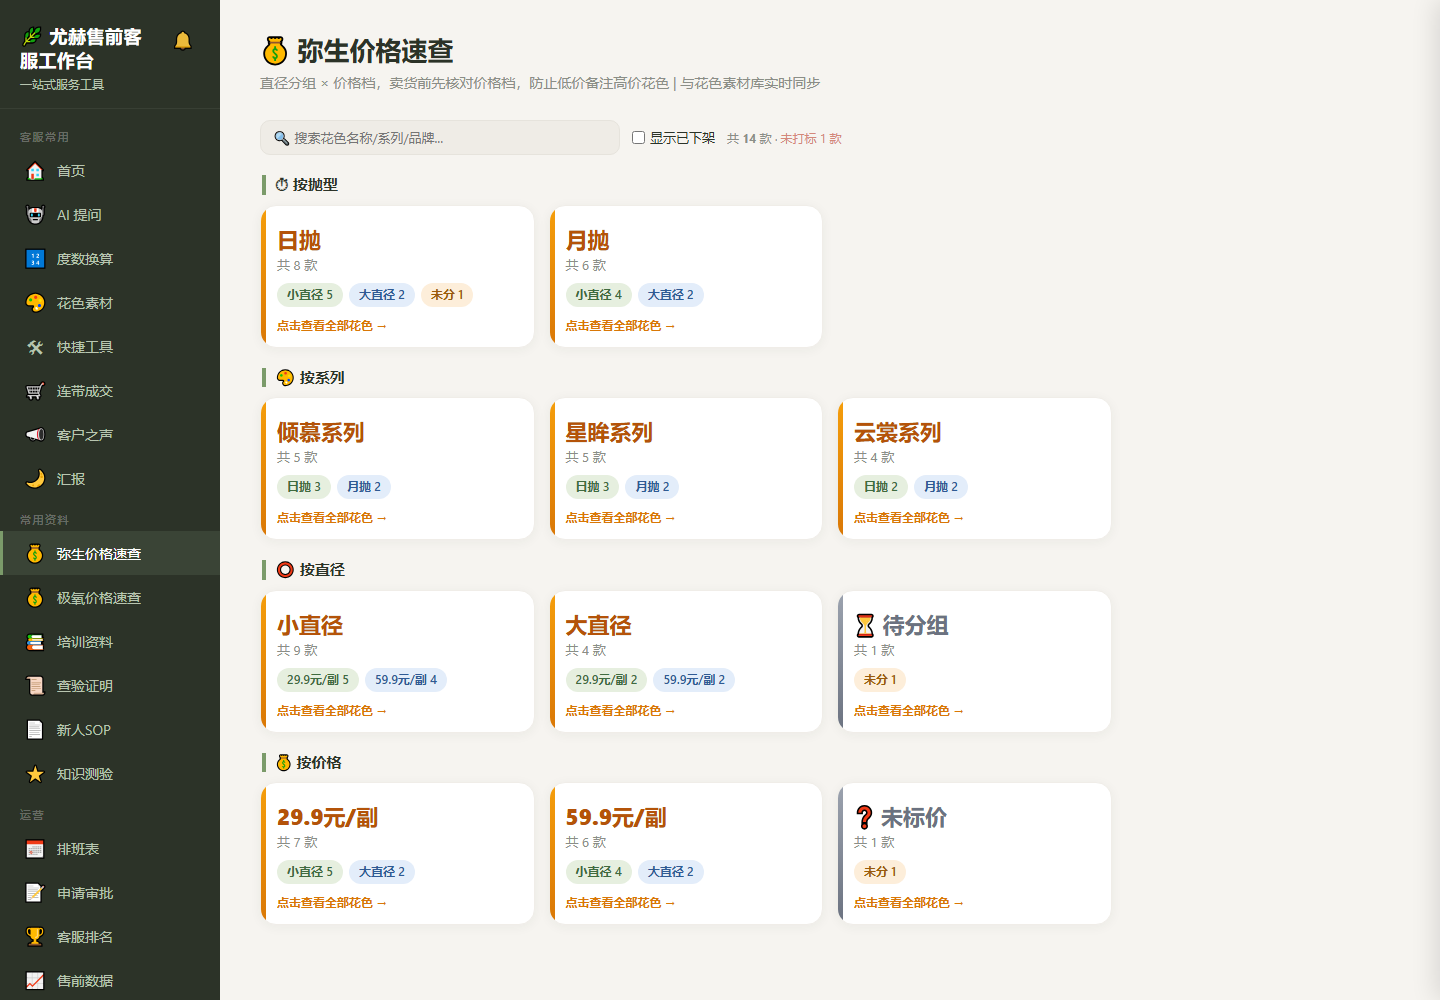
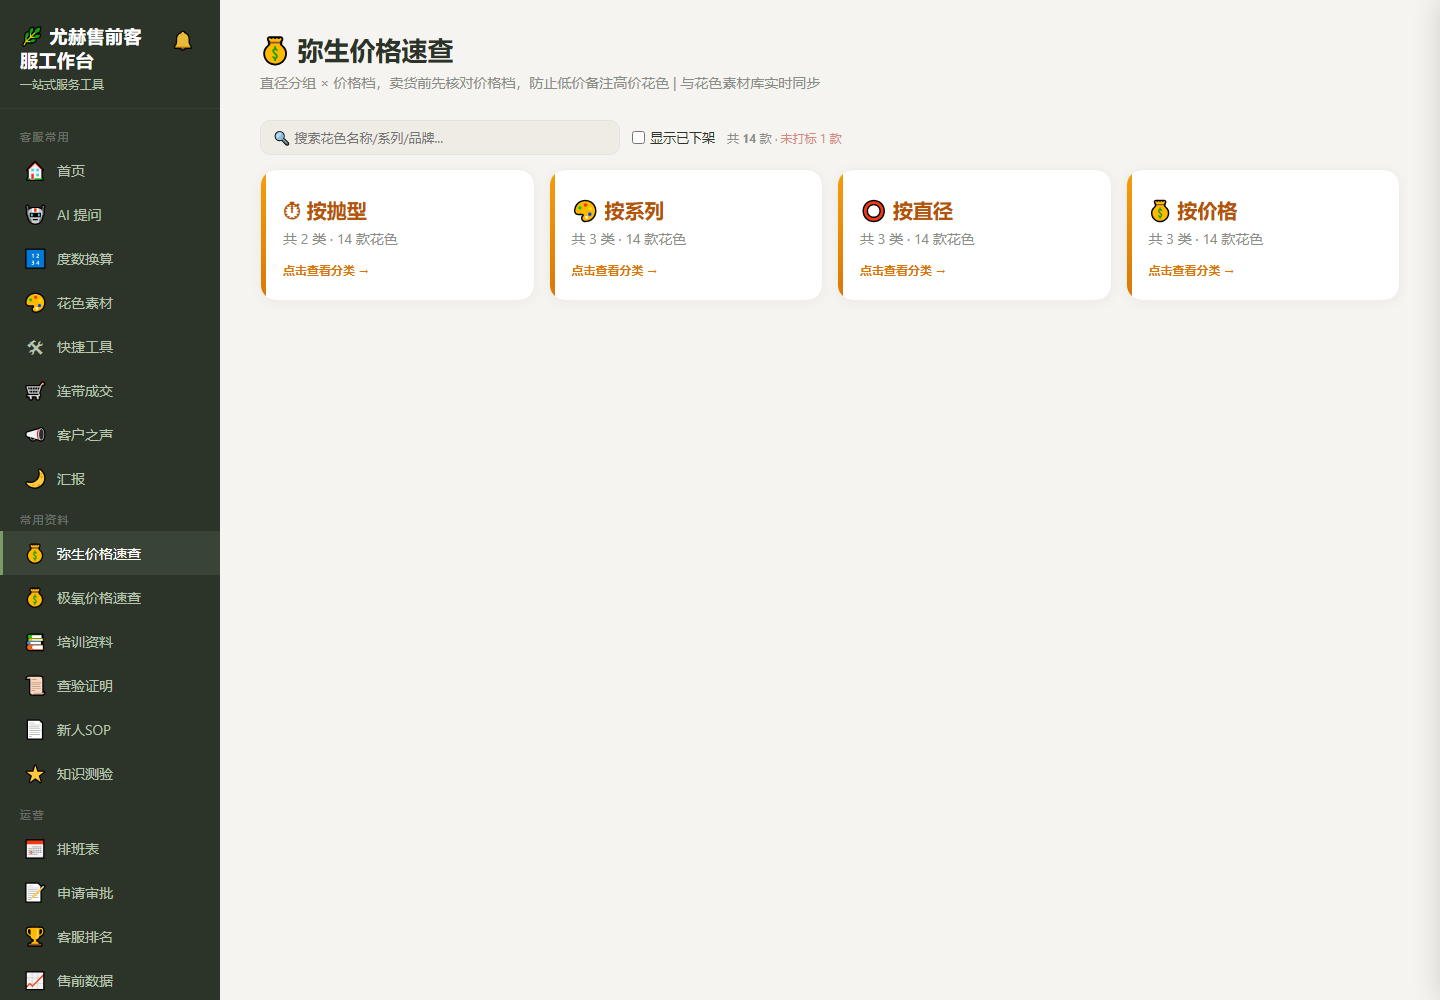
feat: 价格速查改三级导航——第一层只放四张分类大卡，点进分类看选项卡片，再点选项看花色明细

diff --git a/outputs/smoke-pp.js b/outputs/smoke-pp.js
@@ -73,41 +73,49 @@ const wd = setTimeout(()=>{ console.log('WATCHDOG_TIMEOUT'); process.exit(3); },
     return { __skipMerge:true };
   });
 
-  // ===== 第一层：四维度分区（客服视角） =====
+  // ===== 第一层：四张分类大卡片（客服视角） =====
   await ev('csFirstLayer', ()=>{
     const o={};
     const content=()=>document.getElementById('pp-content').textContent;
     o.treeFieldsOk = Object.values(patternData.brands).every(b=>Object.values(b).every(arr=>arr.every(p=>'priceTier' in p && 'diamGroup' in p && '_type' in p && 'series' in p)));
-    o.dimTitleCount = document.querySelectorAll('#pp-content .pp-dim-title').length;   // 按抛型/按系列/按直径/按价格 = 4
-    o.tierCardCount = document.querySelectorAll('#pp-content .pp-tiercard').length;
-    // 弥生非下架 6 款：抛型2(日抛4/半年抛2) + 系列3(倾慕3/星眸1/未填2) + 直径3(小3/大1/待分组2) + 价格3(29.9:3/59.9:1/未标价1) = 11
+    o.l1Cards = document.querySelectorAll('#pp-content .pp-tiercard').length;   // 按抛型/按系列/按直径/按价格 = 4
+    o.l1Info = content().includes('按抛型') && content().includes('按系列') && content().includes('按直径') && content().includes('按价格')
+      && content().includes('类 · 6 款花色');
     o.noCardsLayer1 = document.querySelectorAll('#pp-content .pp-card').length===0;   // 第一层不出现花色卡片
     o.noCheckbox = document.querySelectorAll('#pp-content .pp-check').length===0;
     o.noQuick = document.querySelectorAll('#pp-content .pp-quick').length===0;
     o.noPatternNames = !content().includes('奶茶棕') && !content().includes('小鹿棕') && !content().includes('未标款');
-    o.no499 = !content().includes('49.9元/副');   // 极氧的花色不出现
-    o.no69 = !content().includes('69元/副');
-    o.discHidden = !content().includes('老款棕');
-    // 价格 29.9 卡：共 3 款 + 直径徽标（小直径 2 + 未分 1）
-    const card299 = [...document.querySelectorAll('#pp-content .pp-tiercard')].find(c=>c.querySelector('.pp-tiercard-price') && c.querySelector('.pp-tiercard-price').textContent==='29.9元/副');
-    o.priceCard299Info = !!card299 && card299.textContent.includes('共 3 款') && card299.textContent.includes('小直径 2') && card299.textContent.includes('未分 1');
-    // 抛型 日抛 卡：共 4 款
-    const cardRi = [...document.querySelectorAll('#pp-content .pp-tiercard')].find(c=>c.querySelector('.pp-tiercard-price') && c.querySelector('.pp-tiercard-price').textContent==='日抛');
-    o.typeCardInfo = !!cardRi && cardRi.textContent.includes('共 4 款');
-    // 系列 未填系列 卡：共 2 款
-    const cardNone = [...document.querySelectorAll('#pp-content .pp-tiercard')].find(c=>c.querySelector('.pp-tiercard-price') && c.querySelector('.pp-tiercard-price').textContent.includes('未填系列'));
-    o.seriesNoneInfo = !!cardNone && cardNone.textContent.includes('共 2 款');
+    o.no499 = !content().includes('49.9元/副') && !content().includes('倾慕系列') && !content().includes('日抛');   // 选项也不出现
     const bb = document.getElementById('pp-batch-bar');
     o.batchBarHiddenCs = !bb || bb.style.display==='none';
     return o;
   });
 
-  // ===== 明细层：按抛型 → 日抛（客服视角） =====
+  // ===== 第二层：按系列 → 选项卡片（客服视角） =====
+  await ev('csSeriesL2', ()=>{
+    const o={};
+    openPpDim('series');
+    const content=()=>document.getElementById('pp-content').textContent;
+    o.backBtn = !!document.querySelector('#pp-content .pp-back');
+    o.l2Title = content().includes('按系列') && content().includes('6 款');
+    o.seriesCards = document.querySelectorAll('#pp-content .pp-tiercard').length;   // 倾慕3 + 星眸1 + 未填2 = 3
+    o.seriesInfo = content().includes('倾慕系列') && content().includes('星眸系列') && content().includes('未填系列');
+    o.l2NoPatterns = !content().includes('奶茶棕') && !content().includes('加测甲');   // 选项卡面不出现花色名
+    o.l2NoCheckbox = document.querySelectorAll('#pp-content .pp-check').length===0;
+    const bb = document.getElementById('pp-batch-bar');
+    o.batchBarHiddenCsL2 = !bb || bb.style.display==='none';
+    ppBackToDims();
+    o.backOk = ppDimView===null && document.querySelectorAll('#pp-content .pp-tiercard').length===4;
+    return o;
+  });
+
+  // ===== 第三层：按抛型 → 日抛明细（客服视角） =====
   await ev('csTypeDetail', ()=>{
     const o={};
     openPpDim('type','日抛');
     const content=()=>document.getElementById('pp-content').textContent;
     o.backBtn = !!document.querySelector('#pp-content .pp-back');
+    o.backLabelOk = document.querySelector('#pp-content .pp-back').textContent.includes('返回按抛型');
     o.typeTitleOk = content().includes('日抛') && content().includes('4 款');
     o.typePatterns = content().includes('奶茶棕') && content().includes('加测甲') && content().includes('加测乙');
     o.typeGroupsOk = content().includes('小直径') && content().includes('待分组（未标直径）');
@@ -115,12 +123,14 @@ const wd = setTimeout(()=>{ console.log('WATCHDOG_TIMEOUT'); process.exit(3); },
     o.typeCards = document.querySelectorAll('#pp-content .pp-card').length;   // 4
     const bb = document.getElementById('pp-batch-bar');
     o.batchBarHiddenCsTier = !bb || bb.style.display==='none';
+    ppBackToDimOptions('type');
+    o.typeOptionCards = document.querySelectorAll('#pp-content .pp-tiercard').length;   // 日抛4 + 半年抛2 = 2
+    o.backToL2Ok = ppDimView.val===null && o.typeOptionCards===2;
     ppBackToDims();
-    o.backOk = ppDimView===null && document.querySelectorAll('#pp-content .pp-tiercard').length===11;
     return o;
   });
 
-  // ===== 明细层：按直径 → 小直径（按价格档分组）+ 按价格 → 29.9（按直径分组） =====
+  // ===== 第三层：按直径/按价格（客服视角，交叉分组） =====
   await ev('csDimDetail', ()=>{
     const o={};
     openPpDim('diam','小直径');
@@ -136,23 +146,26 @@ const wd = setTimeout(()=>{ console.log('WATCHDOG_TIMEOUT'); process.exit(3); },
     return o;
   });
 
-  // ===== 管理员：第一层批量条隐藏，明细内可见 + 已下架 =====
+  // ===== 管理员：批量条只在第三层显示 + 已下架 =====
   await ev('adminTier', ()=>{
     const o={};
     currentProfile = { role:'admin', name:'杨茹' };
     renderPatternPricePage();
     let bb = document.getElementById('pp-batch-bar');
-    o.batchBarHiddenL1 = !bb || bb.style.display==='none';   // 管理员在第一层也不显示批量条
+    o.batchBarHiddenL1 = !bb || bb.style.display==='none';   // 第一层隐藏
+    openPpDim('price');
+    bb = document.getElementById('pp-batch-bar');
+    o.batchBarHiddenL2 = !bb || bb.style.display==='none';   // 第二层也隐藏
     openPpDim('price','29.9元/副');
     bb = document.getElementById('pp-batch-bar');
     o.batchBarEl = !!bb;
-    o.batchBarVisibleTier = bb && bb.style.display==='flex';
+    o.batchBarVisibleTier = bb && bb.style.display==='flex';  // 第三层才显示
     o.adminChecks = document.querySelectorAll('#pp-content .pp-check').length;         // 3
     o.quickSelects = document.querySelectorAll('#pp-content .pp-quick select').length; // 6
-    // 已下架：开启后第一层出现 月抛 卡与 69 档卡
+    // 已下架：开启后第二层价格出现 69 卡
     document.getElementById('pp-show-disc').checked = true;
-    ppBackToDims();
-    o.tierCardCountDisc = document.querySelectorAll('#pp-content .pp-tiercard').length;  // 13
+    ppBackToDimOptions('price');
+    o.priceOptionCardsDisc = document.querySelectorAll('#pp-content .pp-tiercard').length;  // 29.9+59.9+69+未标价 = 4
     o.disc69Card = document.getElementById('pp-content').textContent.includes('69元/副');
     openPpDim('price','69元/副');
     o.discVisible = document.getElementById('pp-content').textContent.includes('老款棕');
@@ -183,18 +196,22 @@ const wd = setTimeout(()=>{ console.log('WATCHDOG_TIMEOUT'); process.exit(3); },
     o.newNavCount = document.querySelectorAll('.nav-item[data-page="price-miyang"],.nav-item[data-page="price-jiyang"]').length;   // 2
     window.loadPatternCategories = async ()=>{};
     window.loadPatternsFromDB = async ()=>{ patternData = buildPatternTree(window.__rows || []); };
-    // 模拟正在明细里浏览时点击另一品牌入口 → 应回到第一层
+    // 模拟正在第三层明细里浏览时点击另一品牌入口 → 应回到第一层
     ppDimView = { dim:'type', val:'日抛' };
     switchPage('price-jiyang');
     const h1 = document.querySelector('#page-pattern-price h1').textContent;
     const cj = document.getElementById('pp-content').textContent;
     o.aliasReset = ppDimView===null && ppBrandFilter==='极氧' && h1.includes('极氧');
-    o.aliasJiyangOk = o.aliasReset && cj.includes('49.9元/副') && !cj.includes('29.9元/副') && !cj.includes('奶茶棕');
-    o.tierCardsJiyang = document.querySelectorAll('#pp-content .pp-tiercard').length;   // 极氧仅 a3：4 个维度各 1 张卡
+    o.aliasJiyangOk = o.aliasReset && cj.includes('按价格') && cj.includes('1 款花色') && !cj.includes('奶茶棕');
+    o.tierCardsJiyang = document.querySelectorAll('#pp-content .pp-tiercard').length;   // 4 张分类大卡
+    openPpDim('price');
+    o.jiyangPriceCards = document.querySelectorAll('#pp-content .pp-tiercard').length;  // 极氧价格层仅 49.9 一张
+    o.jiyang499Ok = document.getElementById('pp-content').textContent.includes('49.9元/副');
+    ppBackToDims();
     o.navActiveJiyang = !!document.querySelector('.nav-item[data-page="price-jiyang"].active');
     switchPage('price-miyang');
     const cm = document.getElementById('pp-content').textContent;
-    o.aliasMiyangOk = ppBrandFilter==='弥生' && cm.includes('29.9元/副') && !cm.includes('49.9元/副');
+    o.aliasMiyangOk = ppBrandFilter==='弥生' && cm.includes('按价格') && cm.includes('6 款花色');
     o.navActiveMiyang = !!document.querySelector('.nav-item[data-page="price-miyang"].active');
     // 回归：switchPage 内部 refreshAdminUI 会重设批量条 → 第一层必须仍隐藏
     const bbL1 = document.getElementById('pp-batch-bar');
@@ -266,13 +283,15 @@ const wd = setTimeout(()=>{ console.log('WATCHDOG_TIMEOUT'); process.exit(3); },
     ];
     currentProfile = { role:'admin', name:'杨茹' };
     ppSel.clear(); ppDimView = null; ppRenderLimit = PP_PAGE_SIZE;
-    // 第一层搜索：命中的只有小鹿棕 → 四个分区各剩 1 张卡（共 4 张）
+    // 第一层搜索：4 张分类卡照常渲染；按价格第二层只剩 59.9 一张卡
     const sq=document.getElementById('pp-search'); sq.value='小鹿';
     renderPatternPricePage();
+    const l1ok = document.querySelectorAll('#pp-content .pp-tiercard').length===4;
+    openPpDim('price');
     const c2=document.getElementById('pp-content').textContent;
-    o.searchOk = c2.includes('59.9元/副') && !c2.includes('29.9元/副')
-      && document.querySelectorAll('#pp-content .pp-tiercard').length===4;
-    sq.value='';
+    o.searchOk = l1ok && c2.includes('59.9元/副') && !c2.includes('29.9元/副')
+      && document.querySelectorAll('#pp-content .pp-tiercard').length===1;
+    sq.value=''; ppBackToDims(); renderPatternPricePage();
     const pat = Object.values(patternData.brands).flatMap(b=>Object.values(b)).flat().find(p=>p.name==='小鹿棕');
     window._editPattern = Object.assign({}, pat, { isNew:false, sortOrder: pat.sortOrder || 0 });
     window._editImages = [];
@@ -292,14 +311,14 @@ const wd = setTimeout(()=>{ console.log('WATCHDOG_TIMEOUT'); process.exit(3); },
   out._errs = errs.slice(0,6);
   console.log(JSON.stringify(out,null,2));
   const numeric = {
-    dimTitleCount:4, tierCardCount:11,
+    l1Cards:4, seriesCards:3, typeOptionCards:2,
     typeCards:4, diamCards:3, priceCards:3,
-    tierCardCountDisc:13,
+    priceOptionCardsDisc:4, jiyangPriceCards:1,
     adminChecks:3, quickSelects:6,
     pagedCards:2, afterMoreCards:4,
     tierCardsJiyang:4
   };
-  const needed = ['treeFieldsOk','noCardsLayer1','noCheckbox','noQuick','noPatternNames','no499','no69','discHidden','priceCard299Info','typeCardInfo','seriesNoneInfo','batchBarHiddenCs','backBtn','typeTitleOk','typePatterns','typeGroupsOk','csTierNoCheckbox','batchBarHiddenCsTier','backOk','diamGroupsByPrice','priceGroupsByDiam','batchBarEl','batchBarHiddenL1','batchBarVisibleTier','disc69Card','discVisible','loadMoreOk','oldNavGone','aliasReset','aliasJiyangOk','navActiveJiyang','aliasMiyangOk','navActiveMiyang','aliasBarHiddenL1','quickOk','localSynced','movedOut','batchOk','selClearedAfter','searchOk','editorPriceExists','editorDgExists','editorOptions','filterFnOk'];
+  const needed = ['treeFieldsOk','l1Info','noCardsLayer1','noCheckbox','noQuick','noPatternNames','no499','batchBarHiddenCs','backBtn','l2Title','seriesInfo','l2NoPatterns','l2NoCheckbox','batchBarHiddenCsL2','backOk','backLabelOk','typeTitleOk','typePatterns','typeGroupsOk','csTierNoCheckbox','batchBarHiddenCsTier','backToL2Ok','diamGroupsByPrice','priceGroupsByDiam','batchBarEl','batchBarHiddenL1','batchBarHiddenL2','batchBarVisibleTier','disc69Card','discVisible','loadMoreOk','oldNavGone','aliasReset','aliasJiyangOk','navActiveJiyang','aliasMiyangOk','navActiveMiyang','aliasBarHiddenL1','quickOk','localSynced','movedOut','batchOk','selClearedAfter','searchOk','editorPriceExists','editorDgExists','editorOptions','filterFnOk'];
   const numericKeys = Object.keys(numeric);
   const missing = needed.concat(numericKeys).filter(k=>!(k in out));
   const ok = missing.length===0 && needed.every(k=>out[k]===true) && numericKeys.every(k=>out[k]>=numeric[k]);

diff --git a/index.html b/index.html
@@ -747,6 +747,9 @@ body {
 .pp-loadmore-wrap{text-align:center;padding:16px 0 6px}
 /* 第一层：价格档大卡片（点进去才看花色） */
 .pp-dim-title{font-size:15px;font-weight:800;color:var(--text);margin:20px 2px 10px;padding-left:9px;border-left:4px solid var(--primary);line-height:1.3}
+.pp-tiercard.l1{padding:26px 22px 20px;min-height:132px}
+.pp-tiercard.l1 .pp-tiercard-price{font-size:20px}
+.pp-tiercard.l1 .pp-tiercard-sub{font-size:14px;margin:6px 0 14px}
 .pp-tiercards{display:grid;grid-template-columns:repeat(auto-fill,minmax(220px,1fr));gap:14px}
 .pp-tiercard{position:relative;background:#fff;border:1px solid var(--border-soft);border-radius:16px;padding:18px 16px 14px;cursor:pointer;transition:all .2s;box-shadow:var(--shadow);overflow:hidden}
 .pp-tiercard:hover{transform:translateY(-3px);box-shadow:var(--shadow-md);border-color:#f59e0b}
@@ -3317,7 +3320,7 @@ function refreshAdminUI() {
   if (collabPatternsBtn) collabPatternsBtn.style.display = isAdmin ? '' : 'none';
   // 花色价格速查「批量打标」栏（管理员/协作者可见）
   const ppBatchBar = document.getElementById('pp-batch-bar');
-  if (ppBatchBar) ppBatchBar.style.display = (canEditPatterns && ppDimView) ? 'flex' : 'none';   // 只在进入明细后显示
+  if (ppBatchBar) ppBatchBar.style.display = (canEditPatterns && ppDimView && ppDimView.val) ? 'flex' : 'none';   // 只在花色明细（第三层）显示
   // 培训资料「新增」按钮
   const trainBtn = document.getElementById('train-add-btn');
   if (trainBtn) trainBtn.style.display = canEditTraining ? '' : 'none';
@@ -9705,9 +9708,9 @@ function renderPatternPricePage() {
   // 品牌由入口（switchPage 别名）锁定；未标价档用 '__none__' 表示
   if (!ppBrandFilter || ppBrandFilter === '全部') ppBrandFilter = (getMergedCats('brand', getPatternBrands()).map(b => b.name)[0]) || '弥生';
 
-  // 批量条只在进入某个维度的明细后显示
+  // 批量条只在进入某个分类的花色明细后显示（第三层）
   const bb = document.getElementById('pp-batch-bar');
-  if (bb) bb.style.display = (canManage && ppDimView) ? 'flex' : 'none';
+  if (bb) bb.style.display = (canManage && ppDimView && ppDimView.val) ? 'flex' : 'none';
 
   const search = (document.getElementById('pp-search')?.value || '').toLowerCase().trim();
   const showDisc = !!document.getElementById('pp-show-disc')?.checked;
@@ -9725,39 +9728,53 @@ function renderPatternPricePage() {
   const content = document.getElementById('pp-content');
   let html = '';
 
+  // 选项卡片（第二层用）：只展示统计信息，点进去才看花色
+  const dimCard = (def, key, label, list, none) => {
+    if (!list.length) return '';
+    const bDef = PP_DIMS.find(d => d.dim === def.badgeOf);
+    const counts = {};
+    list.forEach(p => { const b = bDef.key(p); if (b) counts[b] = (counts[b] || 0) + 1; });
+    const unk = list.length - Object.values(counts).reduce((a, b) => a + b, 0);
+    const badges = Object.keys(counts).sort((a, b) => counts[b] - counts[a]).slice(0, 4)
+      .map((b, i) => '<span class="pp-dtag ' + ['small','big','unk'][i % 3] + '">' + escapeHtml(b) + ' ' + counts[b] + '</span>').join('');
+    return '<div class="pp-tiercard' + (none ? ' none' : '') + '" onclick="openPpDim(\'' + escapeAttr(def.dim) + '\',\'' + escapeAttr(key) + '\')">'
+      + '<div class="pp-tiercard-price">' + escapeHtml(label) + '</div>'
+      + '<div class="pp-tiercard-sub">共 ' + list.length + ' 款</div>'
+      + '<div class="pp-tiercard-tags">' + badges + (unk ? '<span class="pp-dtag unk">未分 ' + unk + '</span>' : '') + '</div>'
+      + '<div class="pp-tiercard-enter">点击查看全部花色 →</div></div>';
+  };
+
   if (!ppDimView) {
-    // ===== 第一层：四个维度分区，每区一张张选项大卡片（只展示统计信息，点进去才看花色） =====
-    const dimCard = (def, key, label, list, none) => {
-      if (!list.length) return '';
-      const bDef = PP_DIMS.find(d => d.dim === def.badgeOf);
-      const counts = {};
-      list.forEach(p => { const b = bDef.key(p); if (b) counts[b] = (counts[b] || 0) + 1; });
-      const unk = list.length - Object.values(counts).reduce((a, b) => a + b, 0);
-      const badges = Object.keys(counts).sort((a, b) => counts[b] - counts[a]).slice(0, 4)
-        .map((b, i) => '<span class="pp-dtag ' + ['small','big','unk'][i % 3] + '">' + escapeHtml(b) + ' ' + counts[b] + '</span>').join('');
-      return '<div class="pp-tiercard' + (none ? ' none' : '') + '" onclick="openPpDim(\'' + escapeAttr(def.dim) + '\',\'' + escapeAttr(key) + '\')">'
-        + '<div class="pp-tiercard-price">' + escapeHtml(label) + '</div>'
-        + '<div class="pp-tiercard-sub">共 ' + list.length + ' 款</div>'
-        + '<div class="pp-tiercard-tags">' + badges + (unk ? '<span class="pp-dtag unk">未分 ' + unk + '</span>' : '') + '</div>'
-        + '<div class="pp-tiercard-enter">点击查看全部花色 →</div></div>';
-    };
-    let anyCard = false;
+    // ===== 第一层：四张「按XX分类」大卡片，第一视觉只看分类入口 =====
+    html = '<div class="pp-tiercards">';
     PP_DIMS.forEach(def => {
       const opt = ppDimOptions(def.dim, items);
-      let sec = '<div class="pp-dim-title">' + def.icon + ' ' + def.title + '</div><div class="pp-tiercards">';
-      opt.list.forEach(v => { sec += dimCard(def, v, v, items.filter(p => opt.get(p) === v), false); });
-      sec += dimCard(def, '__none__', opt.noneLabel, items.filter(p => !opt.get(p)), true);
-      sec += '</div>';
-      if (sec.includes('pp-tiercard')) { html += sec; anyCard = true; }
+      let opts = opt.list.filter(v => items.some(p => opt.get(p) === v)).length;
+      if (items.some(p => !opt.get(p))) opts++;   // 未填类也算一类
+      html += '<div class="pp-tiercard l1" onclick="openPpDim(\'' + def.dim + '\')">'
+        + '<div class="pp-tiercard-price">' + def.icon + ' ' + def.title + '</div>'
+        + '<div class="pp-tiercard-sub">共 ' + opts + ' 类 · ' + items.length + ' 款花色</div>'
+        + '<div class="pp-tiercard-enter">点击查看分类 →</div></div>';
     });
-    if (!anyCard) html = '<div class="pattern-empty">😕 没有匹配的花色，先到「花色素材」给花色填上抛型/系列/直径/价格档吧</div>';
+    html += '</div>';
+    if (!items.length) html = '<div class="pattern-empty">😕 没有匹配的花色，先到「花色素材」给花色填上抛型/系列/直径/价格档吧</div>';
+  } else if (!ppDimView.val) {
+    // ===== 第二层：该分类下的选项卡片（如各系列 / 各抛型 / 各价格档） =====
+    const def = PP_DIMS.find(d => d.dim === ppDimView.dim) || PP_DIMS[3];
+    const opt = ppDimOptions(def.dim, items);
+    html += '<button class="pp-back" onclick="ppBackToDims()">← 返回分类入口</button>';
+    html += '<div class="pp-group-title">' + def.icon + ' ' + def.title + '<span class="pp-count">' + items.length + ' 款</span></div>';
+    html += '<div class="pp-tiercards">';
+    opt.list.forEach(v => { html += dimCard(def, v, v, items.filter(p => opt.get(p) === v), false); });
+    html += dimCard(def, '__none__', opt.noneLabel, items.filter(p => !opt.get(p)), true);
+    html += '</div>';
   } else {
-    // ===== 第二层：某维度某选项下的花色明细 =====
+    // ===== 第三层：某分类某选项下的花色明细 =====
     const def = PP_DIMS.find(d => d.dim === ppDimView.dim) || PP_DIMS[3];
     const opt = ppDimOptions(def.dim, items);
     const isNone = ppDimView.val === '__none__';
     const detail = items.filter(p => isNone ? !opt.get(p) : opt.get(p) === ppDimView.val);
-    html += '<button class="pp-back" onclick="ppBackToDims()">← 返回全部分类</button>';
+    html += '<button class="pp-back" onclick="ppBackToDimOptions(\'' + escapeAttr(def.dim) + '\')">← 返回' + escapeHtml(def.title) + '</button>';
     html += '<div class="pp-group-title' + (isNone ? ' pp-warn' : '') + '">' + def.icon + ' ' + (isNone ? opt.noneLabel : escapeHtml(ppDimView.val)) + '<span class="pp-count">' + detail.length + ' 款</span></div>';
     // 明细分组：按直径进来的用价格档分组，其余维度都按直径分组
     const gd = def.dim === 'diam'
@@ -9790,8 +9807,9 @@ function renderPatternPricePage() {
   updatePpSelCount();
 }
 
-// 两级导航：第一层四维度卡片 → 维度明细
-function openPpDim(dim, val) { ppDimView = { dim: dim, val: val }; ppRenderLimit = PP_PAGE_SIZE; renderPatternPricePage(); window.scrollTo(0, 0); }
+// 三级导航：分类入口 → 选项卡片 → 花色明细
+function openPpDim(dim, val) { ppDimView = { dim: dim, val: val || null }; ppRenderLimit = PP_PAGE_SIZE; renderPatternPricePage(); window.scrollTo(0, 0); }
+function ppBackToDimOptions(dim) { ppDimView = { dim: dim, val: null }; ppSel.clear(); ppRenderLimit = PP_PAGE_SIZE; renderPatternPricePage(); window.scrollTo(0, 0); }
 function ppBackToDims() { ppDimView = null; ppSel.clear(); ppRenderLimit = PP_PAGE_SIZE; renderPatternPricePage(); window.scrollTo(0, 0); }
 
 // 搜索 / 显示已下架 / 加载更多（品牌由入口锁定，不再有页签切换）

diff --git a/outputs/screenshot-pp.js b/outputs/screenshot-pp.js
@@ -47,15 +47,15 @@ const BASE = 'http://127.0.0.1:8123/index.html';
     const sq=document.getElementById('pp-search'); if(sq) sq.value='';
     const sd=document.getElementById('pp-show-disc'); if(sd) sd.checked=false;
     ppRenderLimit = PP_PAGE_SIZE;
-    // 通过真实入口进入弥生价格速查（switchPage 别名路由）→ 第一层：四维度分区卡片
+    // 通过真实入口进入弥生价格速查（switchPage 别名路由）→ 第一层：四张分类大卡片
     switchPage('price-miyang');
   });
   await new Promise(r=>setTimeout(r,600));
   await page.screenshot({path:'outputs/pp-page-preview.png', fullPage:false});
-  // 第二层：进入「按价格 29.9元/副」明细
+  // 第二层：点「按系列」→ 该分类下的系列选项卡片
   await page.evaluate(()=>{
-    const card = [...document.querySelectorAll('#pp-content .pp-tiercard')].find(c=>c.querySelector('.pp-tiercard-price') && c.querySelector('.pp-tiercard-price').textContent==='29.9元/副');
-    if (card) card.click(); else openPpDim('price','29.9元/副');
+    const card = [...document.querySelectorAll('#pp-content .pp-tiercard.l1')].find(c=>c.textContent.includes('按系列'));
+    if (card) card.click(); else openPpDim('series');
   });
   await new Promise(r=>setTimeout(r,600));
   await page.screenshot({path:'outputs/pp-tier-preview.png', fullPage:false});
